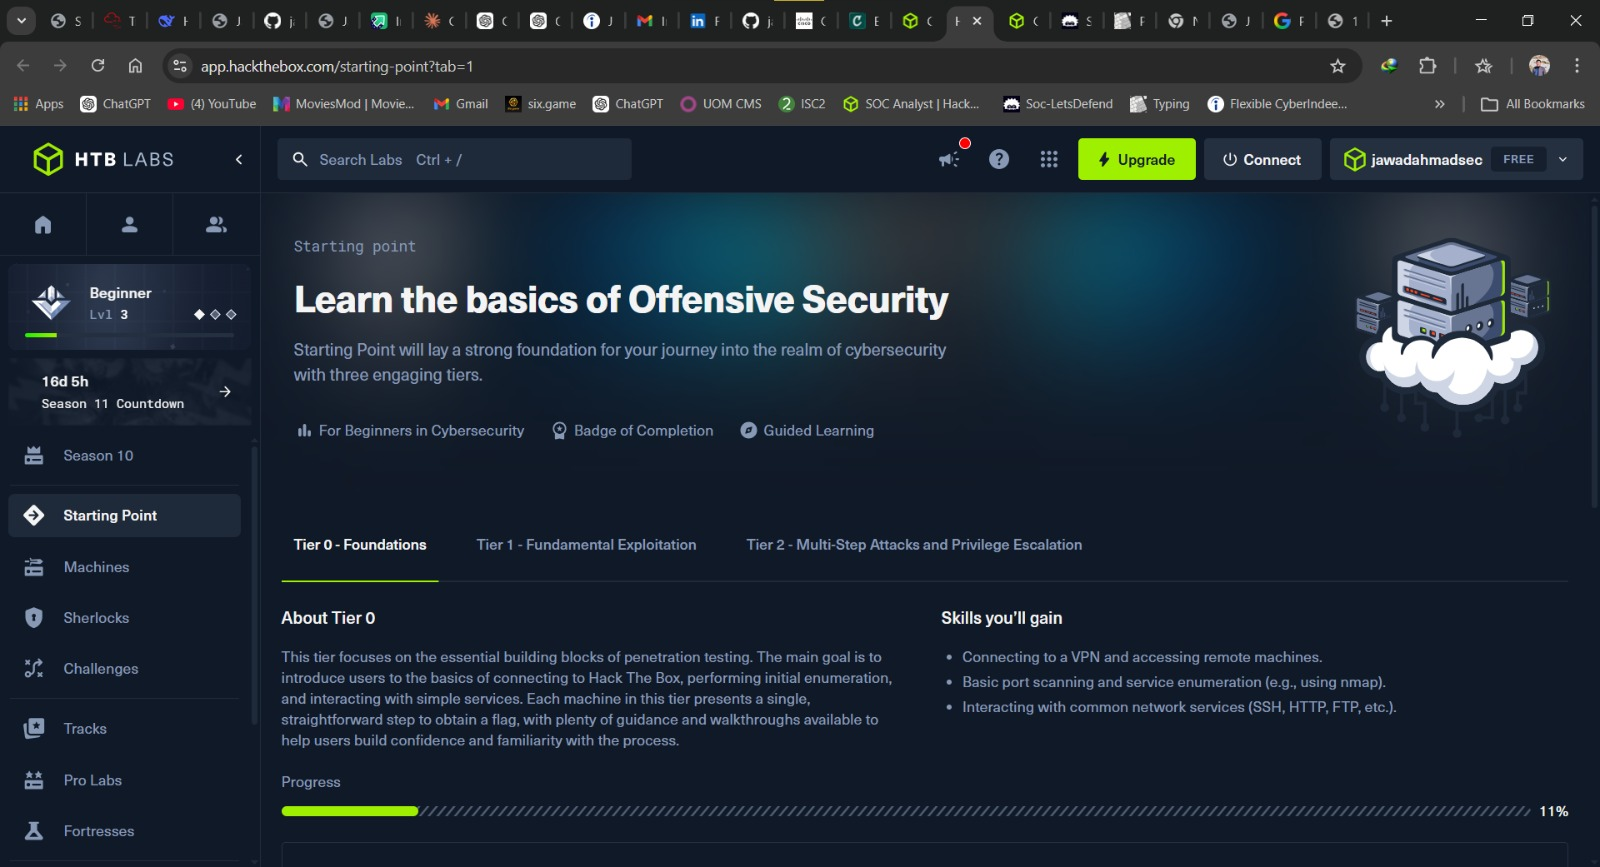
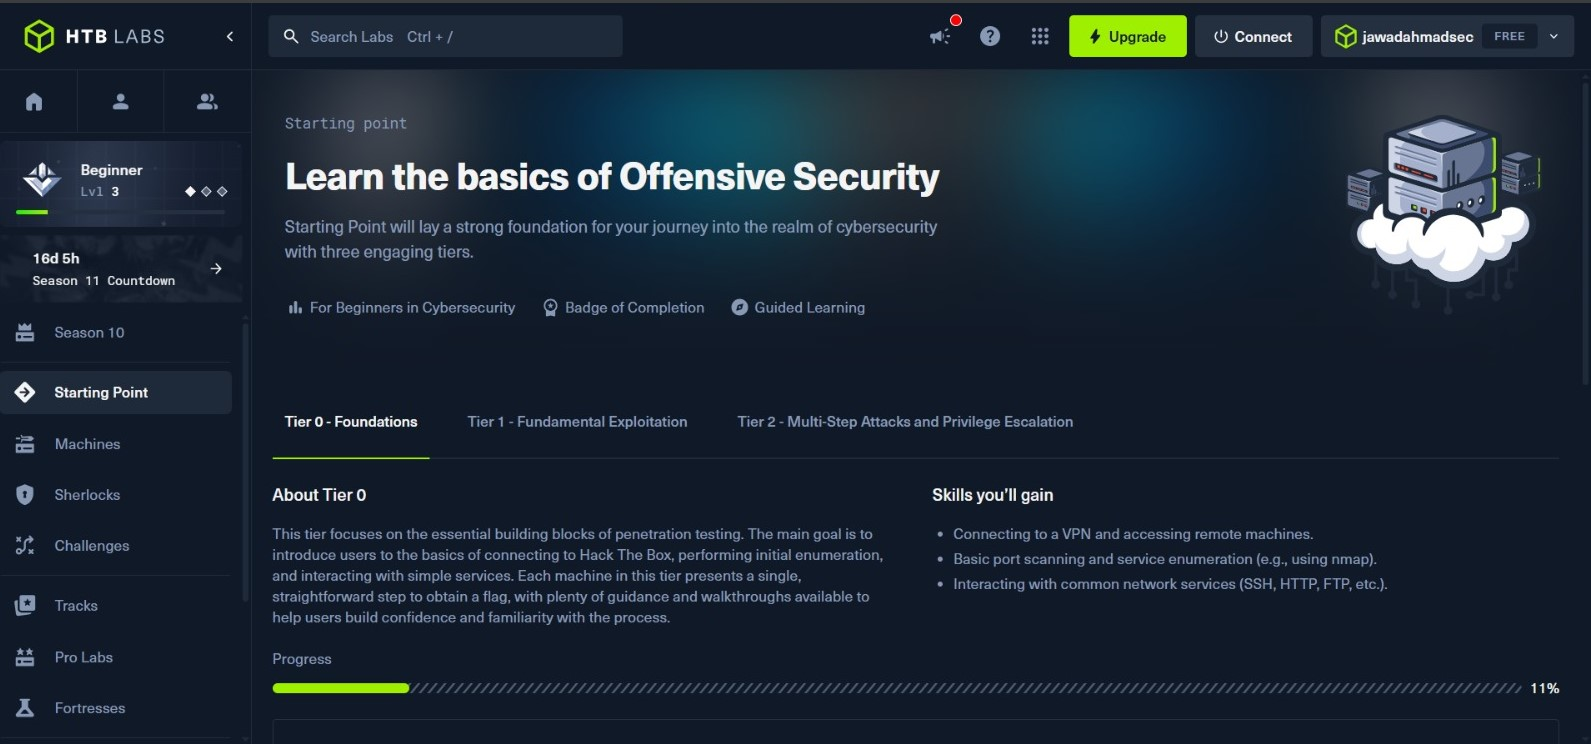
Final update from correct folder – Google cert first

diff --git a/index.html b/index.html
@@ -34,8 +34,8 @@
             <ul class="nav-links" id="navLinks">
                 <li><a href="#home" class="active">Home</a></li>
                 <li><a href="#about">About</a></li>
-                <li><a href="#labs">Lab Setup</a></li>
                 <li><a href="#certificates">Certificates</a></li>
+                <li><a href="#labs">Lab Setup</a></li>
                 <li><a href="#learning">Learning</a></li>
                 <li><a href="#contact">Contact</a></li>
             </ul>
@@ -60,7 +60,7 @@
                 <span id="typingText"></span><span class="cursor"></span>
             </div>
             <div class="btn-group">
-                <a href="#labs" class="btn btn-primary">View My Lab</a>
+                <a href="#certificates" class="btn btn-primary">View My Certificates</a>
                 <a href="#contact" class="btn btn-outline">Get In Touch</a>
                 <a href="jawad-ahmad-cv.pdf" download class="btn btn-cv" onclick="trackCVDownload()">📄 Download CV</a>
             </div>
@@ -102,7 +102,45 @@
         </div>
     </section>
 
-    <!-- Lab Setup -->
+    <!-- ★ Certificates (right after About) ★ -->
+    <section id="certificates">
+        <div class="section-container">
+            <div class="section-title reveal">
+                <h2>Certifications</h2>
+                <span class="underline"></span>
+                <p>Proof of my foundational knowledge</p>
+            </div>
+            <div class="certs-grid">
+                <!-- Google Cybersecurity Professional Certificate (exact filename as in folder) -->
+                <div class="cert-card reveal" style="border: 2px solid var(--accent); box-shadow: 0 0 20px rgba(0,255,136,0.2);">
+                    <div class="cert-thumb">
+                        <img src="Google Cybersecurity Professional Certificate.jpeg" alt="Google Cybersecurity Professional Certificate">
+                    </div>
+                    <div class="cert-info">
+                        <h4 style="color: var(--accent);">Google Cybersecurity Professional Certificate</h4>
+                        <p style="color: var(--accent); font-weight: 600;">Coursera / Google</p>
+                    </div>
+                </div>
+                <!-- Cisco Intro to Cyber Security -->
+                <div class="cert-card reveal">
+                    <div class="cert-thumb"><img src="Intro To Cyber Security.jpeg" alt="Intro to Cyber Security"></div>
+                    <div class="cert-info"><h4>Introduction to Cyber Security</h4><p>Cisco</p></div>
+                </div>
+                <!-- Linux Unhatched -->
+                <div class="cert-card reveal">
+                    <div class="cert-thumb"><img src="Linux.jpeg" alt="Linux Unhatched"></div>
+                    <div class="cert-info"><h4>Linux Unhatched</h4><p>Cisco NetAcad</p></div>
+                </div>
+                <!-- Networking Basics -->
+                <div class="cert-card reveal">
+                    <div class="cert-thumb"><img src="Networking Basic.jpeg" alt="Networking Basics"></div>
+                    <div class="cert-info"><h4>Networking Basics</h4><p>Cisco</p></div>
+                </div>
+            </div>
+        </div>
+    </section>
+
+    <!-- Lab Setup (after certificates) -->
     <section id="labs">
         <div class="section-container">
             <div class="section-title reveal">
@@ -111,7 +149,6 @@
                 <p>The virtual environment I work in every day</p>
             </div>
             <div class="labs-grid">
-                <!-- VM card -->
                 <div class="lab-card reveal">
                     <div class="lab-thumb"><img src="Lab for practice.jpeg" alt="Lab Overview"></div>
                     <div class="lab-info">
@@ -124,7 +161,6 @@
                         <div class="lab-tags"><span>VirtualBox</span><span>Kali</span><span>Parrot</span><span>Metasploitable</span></div>
                     </div>
                 </div>
-                <!-- TryHackMe card -->
                 <div class="lab-card reveal">
                     <div class="lab-thumb"><img src="TryHackme.jpeg" alt="TryHackMe"></div>
                     <div class="lab-info">
@@ -137,7 +173,6 @@
                         <div class="lab-tags"><span>TryHackMe</span></div>
                     </div>
                 </div>
-                <!-- HTB Starting Point card -->
                 <div class="lab-card reveal">
                     <div class="lab-thumb"><img src="HTB.jpeg" alt="Hack The Box Starting Point"></div>
                     <div class="lab-info">
@@ -150,7 +185,6 @@
                         <div class="lab-tags"><span>HackTheBox</span></div>
                     </div>
                 </div>
-                <!-- HTB Offensive Security card -->
                 <div class="lab-card reveal">
                     <div class="lab-thumb"><img src="HTB Offensive Security.jpeg" alt="HTB Offensive Security"></div>
                     <div class="lab-info">
@@ -162,31 +196,6 @@
                         </ul>
                         <div class="lab-tags"><span>HackTheBox</span><span>Offensive</span></div>
                     </div>
-                </div>
-            </div>
-        </div>
-    </section>
-
-    <!-- Certificates -->
-    <section id="certificates">
-        <div class="section-container">
-            <div class="section-title reveal">
-                <h2>Certifications</h2>
-                <span class="underline"></span>
-                <p>Proof of my foundational knowledge</p>
-            </div>
-            <div class="certs-grid">
-                <div class="cert-card reveal">
-                    <div class="cert-thumb"><img src="Intro To Cyber Security.jpeg" alt="Intro to Cyber Security"></div>
-                    <div class="cert-info"><h4>Introduction to Cyber Security</h4><p>Cisco</p></div>
-                </div>
-                <div class="cert-card reveal">
-                    <div class="cert-thumb"><img src="Linux.jpeg" alt="Linux Unhatched"></div>
-                    <div class="cert-info"><h4>Linux Unhatched</h4><p>Cisco NetAcad</p></div>
-                </div>
-                <div class="cert-card reveal">
-                    <div class="cert-thumb"><img src="Networking Basic.jpeg" alt="Networking Basics"></div>
-                    <div class="cert-info"><h4>Networking Basics</h4><p>Cisco</p></div>
                 </div>
             </div>
         </div>
@@ -215,6 +224,7 @@
             <div class="section-title reveal">
                 <h2>Contact</h2>
                 <span class="underline"></span>
+                <p>Let's connect</p>
             </div>
             <div class="contact-wrapper reveal">
                 <form class="contact-form" id="contactForm" action="https://formsubmit.co/jawadahmadkhan125@gmail.com" method="POST">
@@ -238,10 +248,11 @@
     </section>
 
     <footer>
-        <p>© 2026 <strong>Jawad Ahmad</strong> – Cybersecurity Learner</p>
+        <p>© 2025 <strong>Jawad Ahmad</strong> – Cybersecurity Learner</p>
     </footer>
 
     <button class="back-to-top" id="backToTop">↑</button>
     <script src="script.js"></script>
 </body>
 </html>
+<!-- updated cert order -->

diff --git a/script.js b/script.js
@@ -143,4 +143,3 @@ document.getElementById('contactForm').addEventListener('submit', async function
 function trackCVDownload() {
     if (typeof clarity === 'function') clarity('event', 'cv_download');
     if (typeof gtag === 'function') gtag('event', 'download', { event_category: 'CV' });
-}
